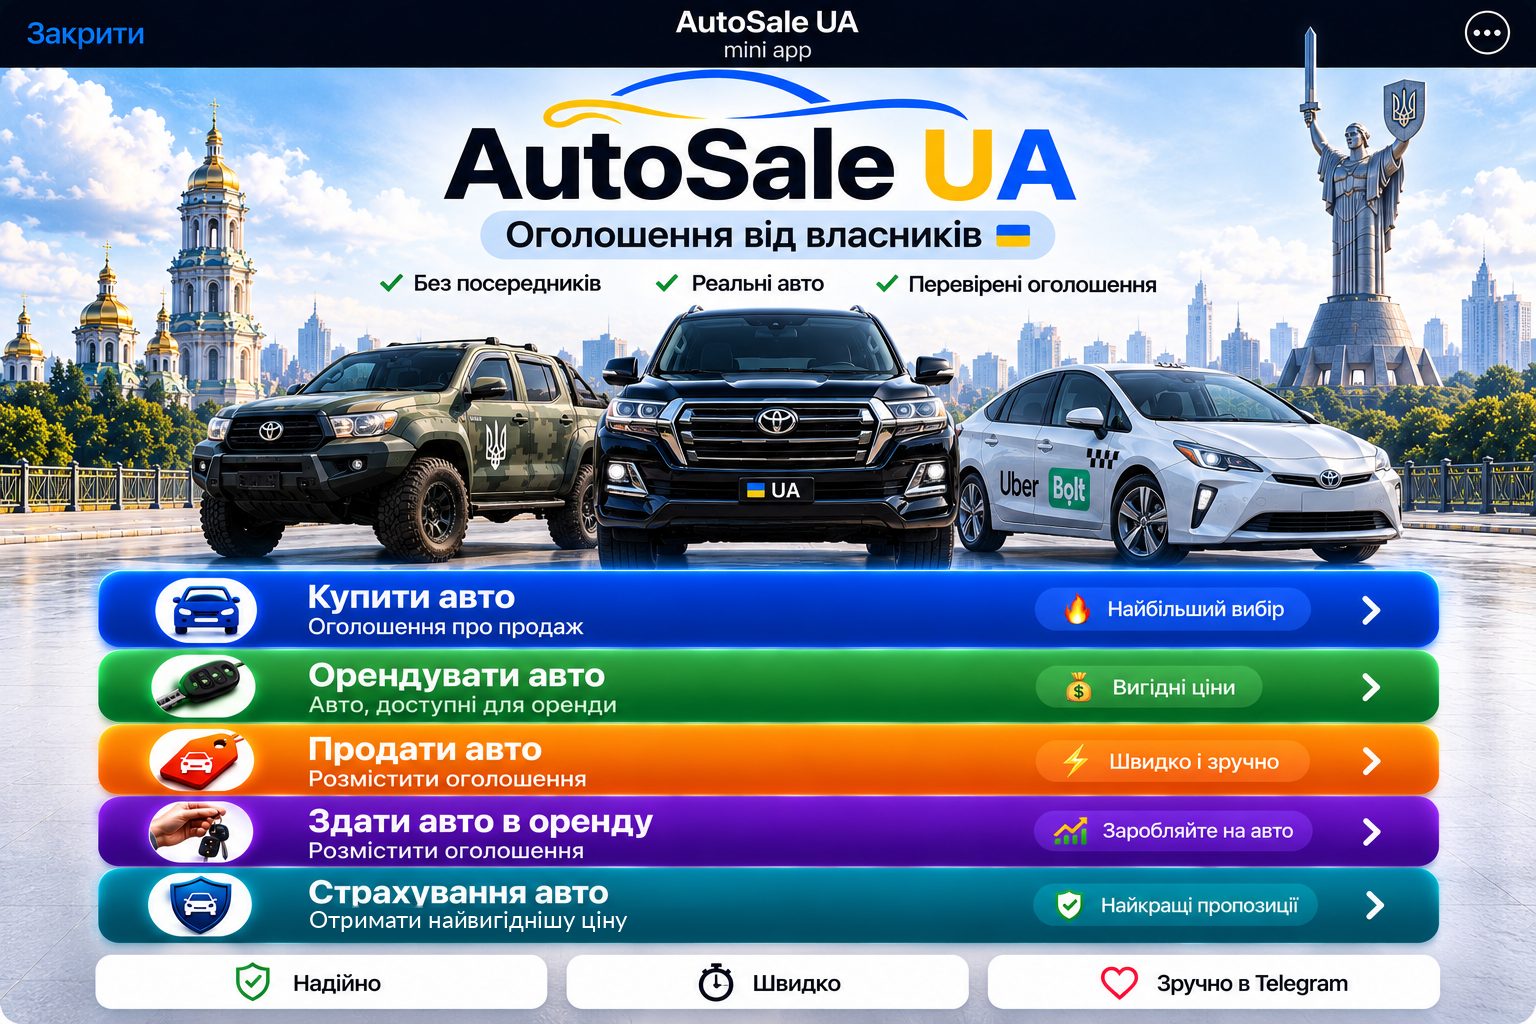
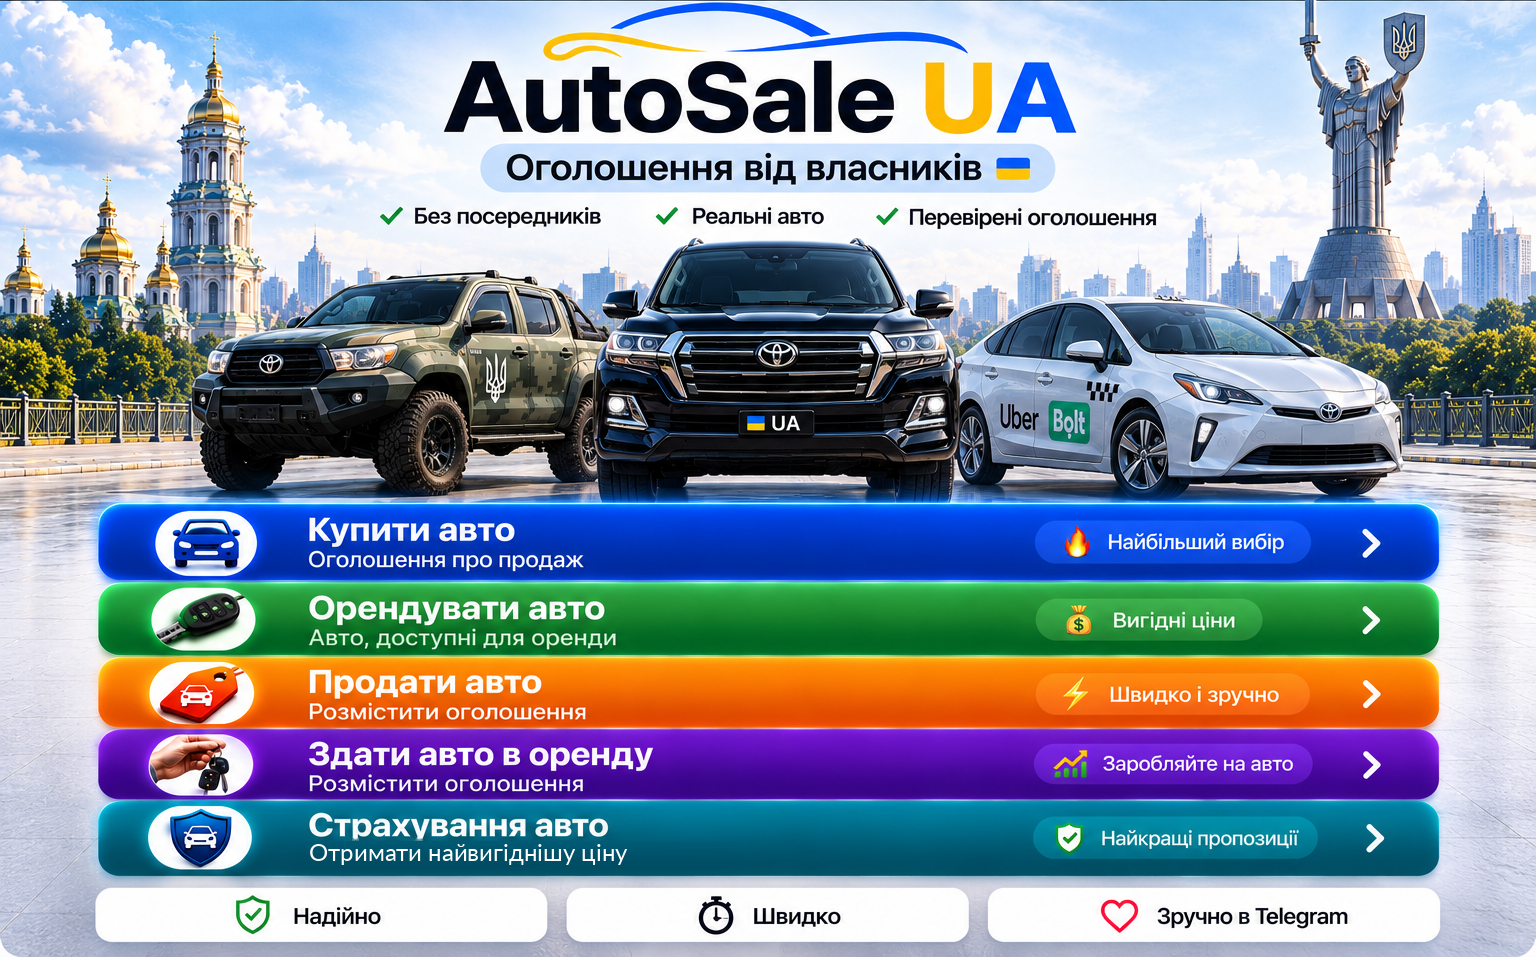
Add files via upload

diff --git a/style.css b/style.css
@@ -5,30 +5,30 @@ body{font-family:-apple-system,BlinkMacSystemFont,"Segoe UI",Arial,sans-serif;ov
 .visual{position:relative;width:100%;line-height:1}
 .scene{display:block;width:100%;height:auto;user-select:none;-webkit-user-drag:none}
 .ui-layer{position:absolute;inset:0;pointer-events:none}
-.action{position:absolute;left:6.3%;width:87.4%;height:7.35%;border:1px solid rgba(255,255,255,.28);border-radius:2.2vw;display:flex;align-items:center;padding:0 3.1%;gap:1.6%;color:#fff;text-align:left;font:inherit;cursor:pointer;pointer-events:auto;box-shadow:0 3px 10px rgba(0,0,0,.18);overflow:hidden}
+.action{position:absolute;left:6.3%;width:87.4%;height:7.87%;border:1px solid rgba(255,255,255,.28);border-radius:2.2vw;display:flex;align-items:center;padding:0 3.1%;gap:1.6%;color:#fff;text-align:left;font:inherit;cursor:pointer;pointer-events:auto;box-shadow:0 3px 10px rgba(0,0,0,.18);overflow:hidden}
 .action:active{transform:translateY(1px);filter:brightness(.95)}
-.action-buy{top:55.7%;background:linear-gradient(90deg,#0956f5,#0a36c9)}
-.action-rent{top:63.55%;background:linear-gradient(90deg,#09a63a,#07852f)}
-.action-sell{top:71.25%;background:linear-gradient(90deg,#ff9b00,#f06d00)}
-.action-give-rent{top:78.95%;background:linear-gradient(90deg,#731cf0,#4c08c4)}
-.action-insurance{top:86.65%;background:linear-gradient(90deg,#087e9b,#00597d)}
+.action-buy{top:52.6%;background:linear-gradient(90deg,#0956f5,#0a36c9)}
+.action-rent{top:61%;background:linear-gradient(90deg,#09a63a,#07852f)}
+.action-sell{top:69.24%;background:linear-gradient(90deg,#ff9b00,#f06d00)}
+.action-give-rent{top:77.48%;background:linear-gradient(90deg,#731cf0,#4c08c4)}
+.action-insurance{top:85.71%;background:linear-gradient(90deg,#087e9b,#00597d)}
 .icon{width:8.2%;aspect-ratio:1;border-radius:50%;background:rgba(255,255,255,.96);display:grid;place-items:center;font-size:clamp(18px,2.5vw,30px);flex:none}
 .copy{display:flex;flex-direction:column;min-width:0;line-height:1.05;flex:1}
 .copy strong{font-size:clamp(19px,2.55vw,31px);font-weight:750;white-space:nowrap}
 .copy small{font-size:clamp(11px,1.55vw,18px);font-weight:500;margin-top:.18em;white-space:nowrap}
 .badge{flex:none;background:rgba(255,255,255,.12);border:1px solid rgba(255,255,255,.13);border-radius:999px;padding:.55em 1em;font-size:clamp(10px,1.25vw,15px);white-space:nowrap}
 .arrow{font-size:clamp(32px,3.6vw,46px);font-weight:300;line-height:.7;margin-left:1%;flex:none}
-.benefits{position:absolute;left:6.2%;right:6.2%;top:93.1%;height:5.25%;display:grid;grid-template-columns:repeat(3,1fr);gap:1.5%;pointer-events:none}
+.benefits{position:absolute;left:6.2%;right:6.2%;top:94.11%;height:5.35%;display:grid;grid-template-columns:repeat(3,1fr);gap:1.5%;pointer-events:none}
 .benefits div{background:rgba(255,255,255,.92);border-radius:1.2vw;display:flex;align-items:center;justify-content:center;gap:.7em;color:#111;font-size:clamp(12px,1.55vw,18px);font-weight:650;box-shadow:0 2px 7px rgba(0,0,0,.1)}
 .benefits div:first-child{color:#188b39}.benefits div:last-child{color:#e51d48}
 @media (max-width:560px){
-  .action{left:5.9%;width:88.2%;height:7.45%;border-radius:14px;padding:0 2.7%;gap:1.3%}
+  .action{left:5.9%;width:88.2%;height:7.97%;border-radius:14px;padding:0 2.7%;gap:1.3%}
   .icon{width:8.7%;font-size:18px}
   .copy strong{font-size:clamp(14px,4.2vw,20px)}
   .copy small{font-size:clamp(8px,2.65vw,13px)}
   .badge{font-size:clamp(7px,2.1vw,10px);padding:.48em .72em}
   .arrow{font-size:32px}
-  .benefits{gap:1.2%;top:93.05%}
+  .benefits{gap:1.2%;top:94.22%;height:5.24%}
   .benefits div{font-size:clamp(8px,2.7vw,12px);border-radius:8px}
 }
 @media (min-width:700px){.app{box-shadow:0 0 40px rgba(0,0,0,.08)}}
